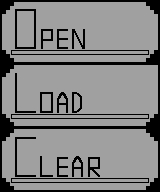
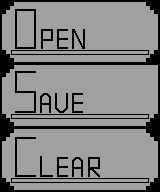
SAVE 50% ready, OPEN 0%, CLEAR 100%

Changed region(s): [[0.0938, 0.4688, 0.5312, 0.5938], [0.0938, 0.3438, 0.2188, 0.4062], [0.4375, 0.8125, 0.5312, 0.8438]]

diff --git a/main.cpp b/main.cpp
@@ -2,6 +2,8 @@
 
 #include <iostream>
 #include <fstream>
+#include <string.h>
+#include <cstdlib>
 #include <SFML/Graphics.hpp>
 
 using namespace sf;
@@ -10,10 +12,8 @@ const int SizeCell = 32;
 
 class FieldCreator{
 public:
-	int m, n;
-	int **arr;
-	int w, h;
-	String File;
+	int m, n, w, h;
+	int **arr, **topArr, **leftArr;
 
 	Image menuImage;
 	Texture menuTexture;
@@ -23,11 +23,22 @@ public:
 	Texture fieldTexture;
 	Sprite fieldSprite;
 
+	void Zanulaem(int **parr, int m, int n){
+		for (int i = 0; i < m; i++) // Zanulaem arr
+			for (int j = 0; j < n; j++)
+				parr[i][j] = 0;
+
+	}
+
 	int **create_arr(int m, int n) {
 		int **parr = new int *[m];
-		for (int i = 0; i < m; i++){
+
+		for (int i = 0; i < m; i++)
 			parr[i] = new int [n];
-		}
+
+		for (int i = 0; i < m; i++) // Zanulaem arr
+			for (int j = 0; j < n; j++)
+				parr[i][j] = 0;
 
 		return parr;
 	}
@@ -38,13 +49,15 @@ public:
     delete [] arr;
 	}
 
-	FieldCreator(String F, int M, int N){
-		File = F;//name cell sprite
+	FieldCreator(int M, int N){
 		m = M; n = N; //m = width, n = heigth cells
 		w = 5*32; h = 2*3*32;
-		arr = create_arr(M, N);
 
-		fieldImage.loadFromFile("images/" + File);
+		arr = create_arr(M, N);
+		topArr = create_arr(M, N/2 + 1);
+		leftArr = create_arr(N, M/2 + 1);
+
+		fieldImage.loadFromFile("images/field.jpg");
 		fieldTexture.loadFromImage(fieldImage);
 		fieldSprite.setTexture(fieldTexture);
 		fieldSprite.setTextureRect(IntRect(0, 0, SizeCell, SizeCell));
@@ -54,9 +67,6 @@ public:
 		menuSprite.setTexture(menuTexture);
 		menuSprite.setTextureRect(IntRect(0, 0, w, h));
 
-		for (int i = 0; i < m; i++) // Zanulaem arr
-			for (int j = 0; j < n; j++)
-				arr[i][j] = 0;
 	}
 
 	void change_color(int click, int x, int y){ //change color cell
@@ -86,11 +96,42 @@ public:
 	void Press(int button){ // Activated menu
 		switch (button) {
 			case 0://open
-				std::cout << "/* message OPEN*/" << std::endl;
+
+
+
 				break;
-			case 1://load
-				std::cout << "/* message LOAD*/" << std::endl;
-				break;
+			case 1:{//save
+				char fileName[20];
+				char topFile[40] = "Data/TopMatrix/";
+
+				std::cout << "Crossword name: ";
+				std::cin >> fileName;
+				strcat(topFile, fileName);
+
+				std::ofstream topMatr; //create file
+				topMatr.open(topFile);
+
+				Zanulaem(topArr, m, n/2+1);
+
+				for (int i = 0; i < m; i++) { // fill top Matrix int array
+						int k = 0;
+						for (int j = 0; j < n; j++) {
+							if (arr[i][j] == 2)
+								topArr[i][k]++;
+							else if (arr[i][j-1] == 2)
+								k++;
+						}
+					}
+
+				for (int i = 0; i < m; i++){ // road to file TOP
+					for (int j = 0; j < n/2 + 1; j++)
+						topMatr << topArr[i][j];
+					topMatr << std::endl;
+				}
+
+					topMatr.close();
+			}
+			break;
 			case 2://clear
 				for (int i = 0; i < m; i++)
 					for (int j = 0; j < n; j++)
@@ -111,7 +152,7 @@ int main()
 	std::cout << "n = ";
 	std::cin >> nc;
 
-	FieldCreator* creator = new FieldCreator("field.jpg", mc, nc);
+	FieldCreator* creator = new FieldCreator(mc, nc);
 
 	RenderWindow window(sf::VideoMode((creator->m + 5)*SizeCell, creator->n*SizeCell), "Creator JC", Style::Close);
 
